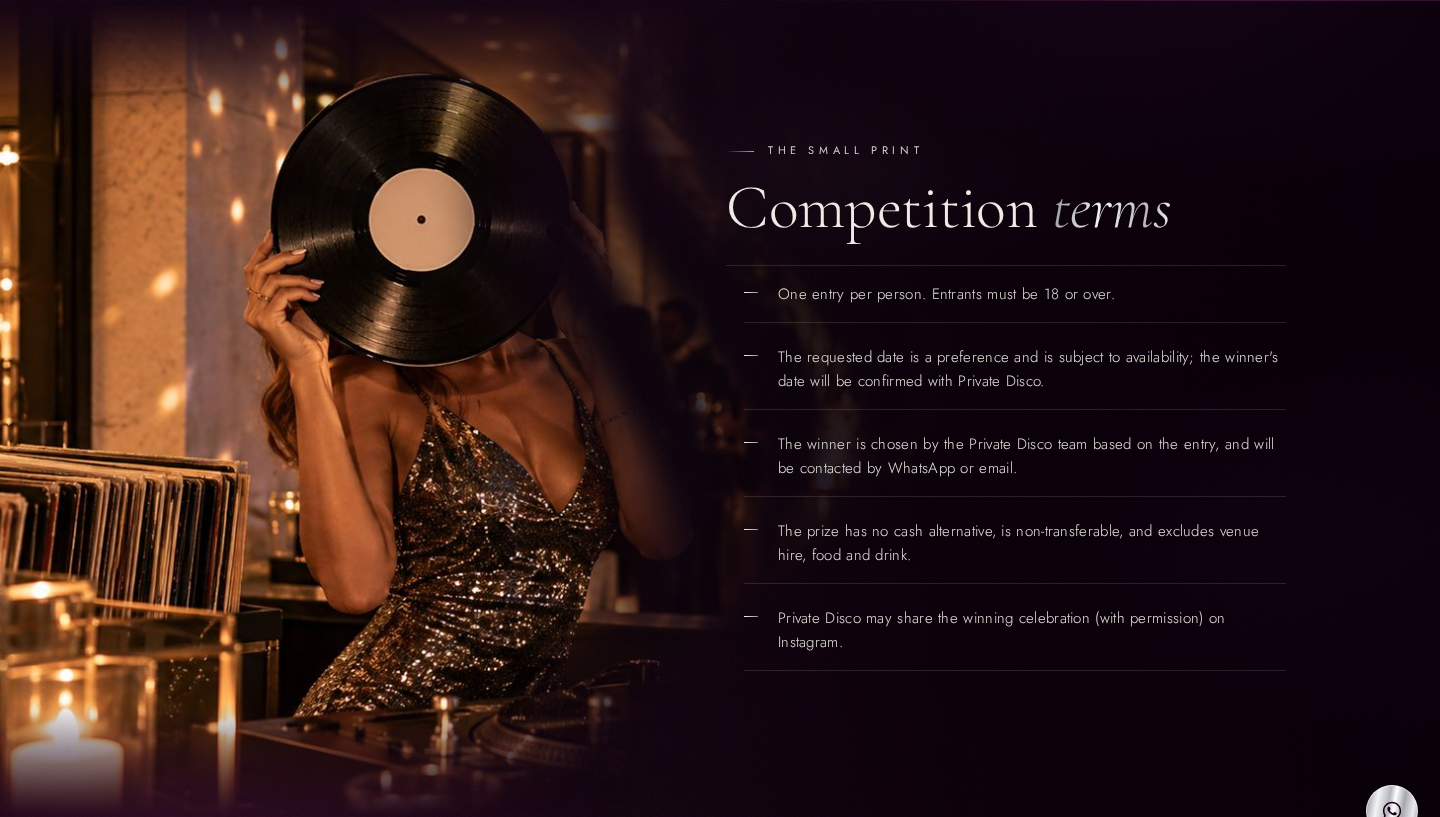
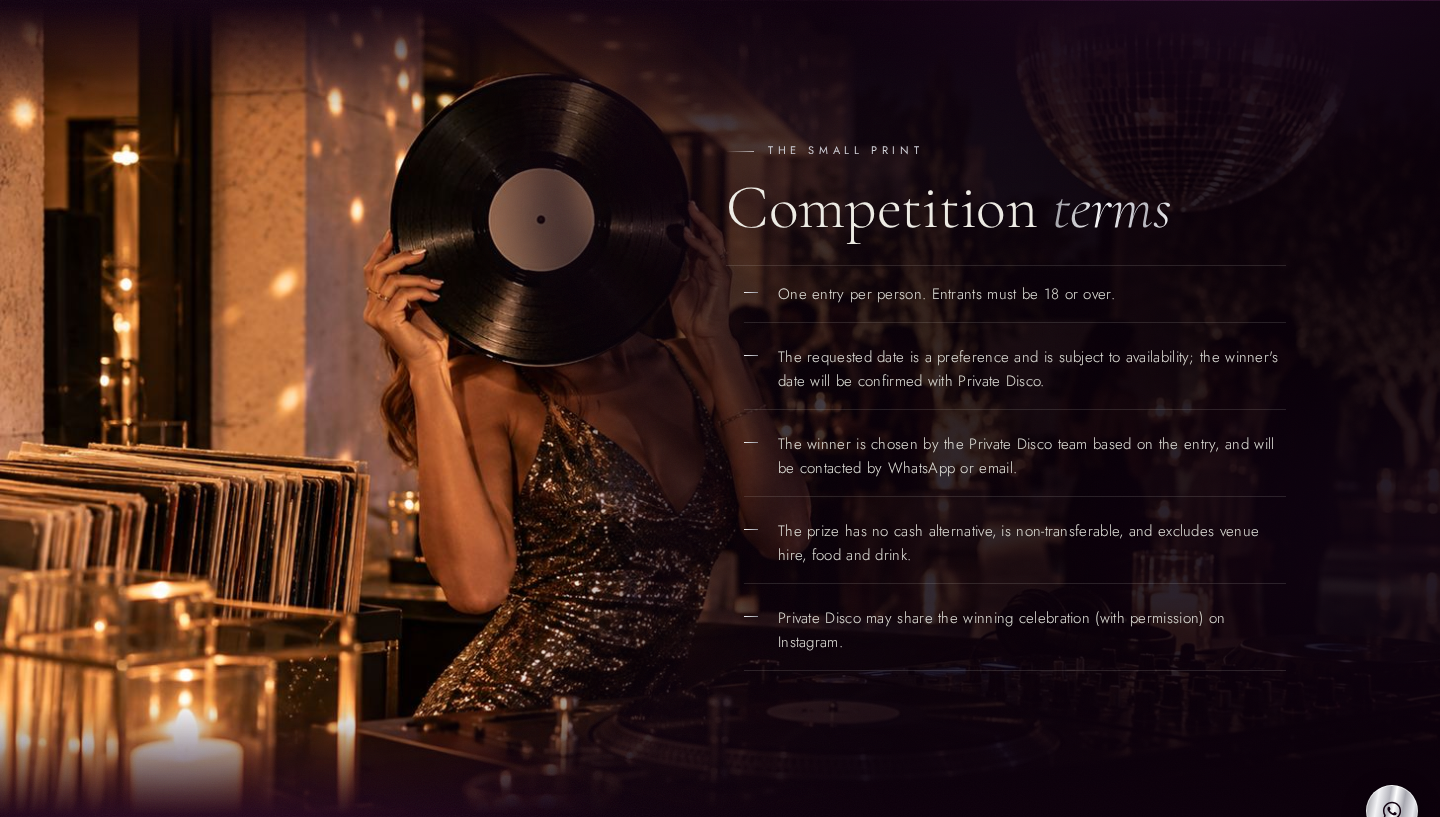
Add files via upload

diff --git a/competition.html b/competition.html
@@ -9,7 +9,7 @@
 <link rel="icon" href="assets/favicon.png">
 <link rel="preconnect" href="https://fonts.googleapis.com"><link rel="preconnect" href="https://fonts.gstatic.com" crossorigin>
 <link href="https://fonts.googleapis.com/css2?family=Cormorant+Garamond:ital,wght@0,300;0,400;0,500;1,300;1,400;1,500&family=Jost:wght@300;400;500&display=swap" rel="stylesheet">
-<link rel="stylesheet" href="css/style.css?v=20261015143055">
+<link rel="stylesheet" href="css/style.css?v=20261015144307">
 </head>
 <body data-page="competition">
 <div id="site-header"></div>
@@ -120,6 +120,7 @@
   </section>
 
   <section class="terms-flow">
+    <div class="tf-faint" style="background-image:url(assets/photos/vinyl-terrace.jpg)" aria-hidden="true"></div>
     <div class="tf-img" role="img" aria-label="Woman holding a vinyl record at a candlelit DJ booth under a mirror ball" style="background-image:url(assets/photos/vinyl-terrace.jpg)"></div>
     <div class="wrap">
       <div class="terms reveal">
@@ -138,8 +139,8 @@
 </main>
 
 <div id="site-footer"></div>
-<script src="js/config.js?v=20261015143055"></script>
-<script src="js/main.js?v=20261015143055"></script>
-<script src="js/competition.js?v=20261015143055"></script>
+<script src="js/config.js?v=20261015144307"></script>
+<script src="js/main.js?v=20261015144307"></script>
+<script src="js/competition.js?v=20261015144307"></script>
 </body>
 </html>

diff --git a/css/style.css b/css/style.css
@@ -1058,3 +1058,10 @@ html.pd-ready :is(.site-header,main,footer,.wa-float){transition:transform .45s 
 .terms-flow::after{background:linear-gradient(270deg,rgba(10,0,10,.9) 0%,rgba(10,0,10,.65) 34%,transparent 55%)}
 .terms-flow .terms{max-width:560px}
 @media (max-width:900px){.tf-img{width:100%;-webkit-mask:linear-gradient(180deg,transparent,#000 14%,#000 60%,transparent);mask:linear-gradient(180deg,transparent,#000 14%,#000 60%,transparent)}}
+.tf-faint{position:absolute;inset:0;z-index:-3;background-size:cover;background-position:center;opacity:.32;filter:saturate(.8);
+  -webkit-mask-image:linear-gradient(180deg,transparent,#000 18%,#000 82%,transparent);mask-image:linear-gradient(180deg,transparent,#000 18%,#000 82%,transparent)}
+.terms-flow::after{background:linear-gradient(270deg,rgba(10,0,10,.72) 0%,rgba(10,0,10,.5) 38%,transparent 60%)}
+@media (max-width:900px){.tf-faint{opacity:.18}}
+.tf-img{width:100%;background-position:left center;-webkit-mask:url(../assets/photos/flow-mask-left.png) left center/72% 100% no-repeat;mask:url(../assets/photos/flow-mask-left.png) left center/72% 100% no-repeat}
+.tf-faint{background-position:left center}
+@media (max-width:900px){.tf-img{background-position:30% center;-webkit-mask:linear-gradient(180deg,transparent,#000 14%,#000 60%,transparent);mask:linear-gradient(180deg,transparent,#000 14%,#000 60%,transparent)}}

diff --git a/services.html b/services.html
@@ -9,7 +9,7 @@
 <link rel="icon" href="assets/favicon.png">
 <link rel="preconnect" href="https://fonts.googleapis.com"><link rel="preconnect" href="https://fonts.gstatic.com" crossorigin>
 <link href="https://fonts.googleapis.com/css2?family=Cormorant+Garamond:ital,wght@0,300;0,400;0,500;1,300;1,400;1,500&family=Jost:wght@300;400;500&display=swap" rel="stylesheet">
-<link rel="stylesheet" href="css/style.css?v=20261015143055">
+<link rel="stylesheet" href="css/style.css?v=20261015144307">
 </head>
 <body data-page="services">
 <div id="site-header"></div>
@@ -224,8 +224,8 @@
 </main>
 
 <div id="site-footer"></div>
-<script src="js/config.js?v=20261015143055"></script>
-<script src="js/main.js?v=20261015143055"></script>
+<script src="js/config.js?v=20261015144307"></script>
+<script src="js/main.js?v=20261015144307"></script>
 <script>
 (function () {
   const f = document.getElementById("svc-enquiry"), st = document.getElementById("s-status");

diff --git a/contact.html b/contact.html
@@ -9,7 +9,7 @@
 <link rel="icon" href="assets/favicon.png">
 <link rel="preconnect" href="https://fonts.googleapis.com"><link rel="preconnect" href="https://fonts.gstatic.com" crossorigin>
 <link href="https://fonts.googleapis.com/css2?family=Cormorant+Garamond:ital,wght@0,300;0,400;0,500;1,300;1,400;1,500&family=Jost:wght@300;400;500&display=swap" rel="stylesheet">
-<link rel="stylesheet" href="css/style.css?v=20261015143055">
+<link rel="stylesheet" href="css/style.css?v=20261015144307">
 </head>
 <body data-page="contact">
 <div id="site-header"></div>
@@ -86,8 +86,8 @@
 </main>
 
 <div id="site-footer"></div>
-<script src="js/config.js?v=20261015143055"></script>
-<script src="js/main.js?v=20261015143055"></script>
+<script src="js/config.js?v=20261015144307"></script>
+<script src="js/main.js?v=20261015144307"></script>
 <script>
 (function () {
   const f = document.getElementById("enquiry"), st = document.getElementById("e-status");

diff --git a/index.html b/index.html
@@ -13,7 +13,7 @@
 <link rel="preconnect" href="https://fonts.googleapis.com"><link rel="preconnect" href="https://fonts.gstatic.com" crossorigin>
 <link href="https://fonts.googleapis.com/css2?family=Cormorant+Garamond:ital,wght@0,300;0,400;0,500;1,300;1,400;1,500&family=Jost:wght@300;400;500&display=swap" rel="stylesheet">
 <link rel="preload" as="image" href="assets/photos/hero-dj.jpg">
-<link rel="stylesheet" href="css/style.css?v=20261015143055">
+<link rel="stylesheet" href="css/style.css?v=20261015144307">
 </head>
 <body data-page="home">
 <div id="site-header"></div>
@@ -247,7 +247,7 @@
 </main>
 
 <div id="site-footer"></div>
-<script src="js/config.js?v=20261015143055"></script>
-<script src="js/main.js?v=20261015143055"></script>
+<script src="js/config.js?v=20261015144307"></script>
+<script src="js/main.js?v=20261015144307"></script>
 </body>
 </html>

diff --git a/talent.html b/talent.html
@@ -9,7 +9,7 @@
 <link rel="icon" href="assets/favicon.png">
 <link rel="preconnect" href="https://fonts.googleapis.com"><link rel="preconnect" href="https://fonts.gstatic.com" crossorigin>
 <link href="https://fonts.googleapis.com/css2?family=Cormorant+Garamond:ital,wght@0,300;0,400;0,500;1,300;1,400;1,500&family=Jost:wght@300;400;500&display=swap" rel="stylesheet">
-<link rel="stylesheet" href="css/style.css?v=20261015143055">
+<link rel="stylesheet" href="css/style.css?v=20261015144307">
 </head>
 <body data-page="talent">
 <div id="site-header"></div>
@@ -86,7 +86,7 @@
 </main>
 
 <div id="site-footer"></div>
-<script src="js/config.js?v=20261015143055"></script>
-<script src="js/main.js?v=20261015143055"></script>
+<script src="js/config.js?v=20261015144307"></script>
+<script src="js/main.js?v=20261015144307"></script>
 </body>
 </html>
